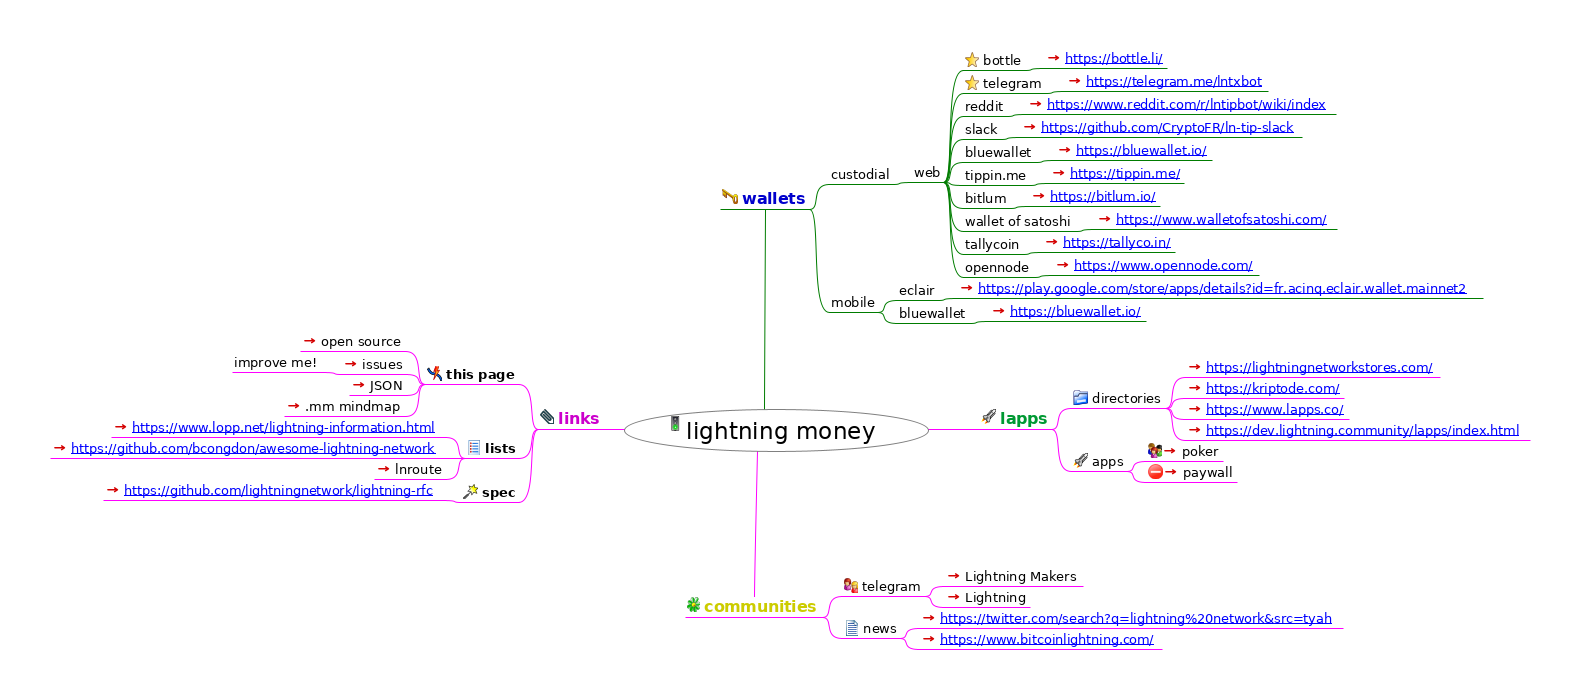
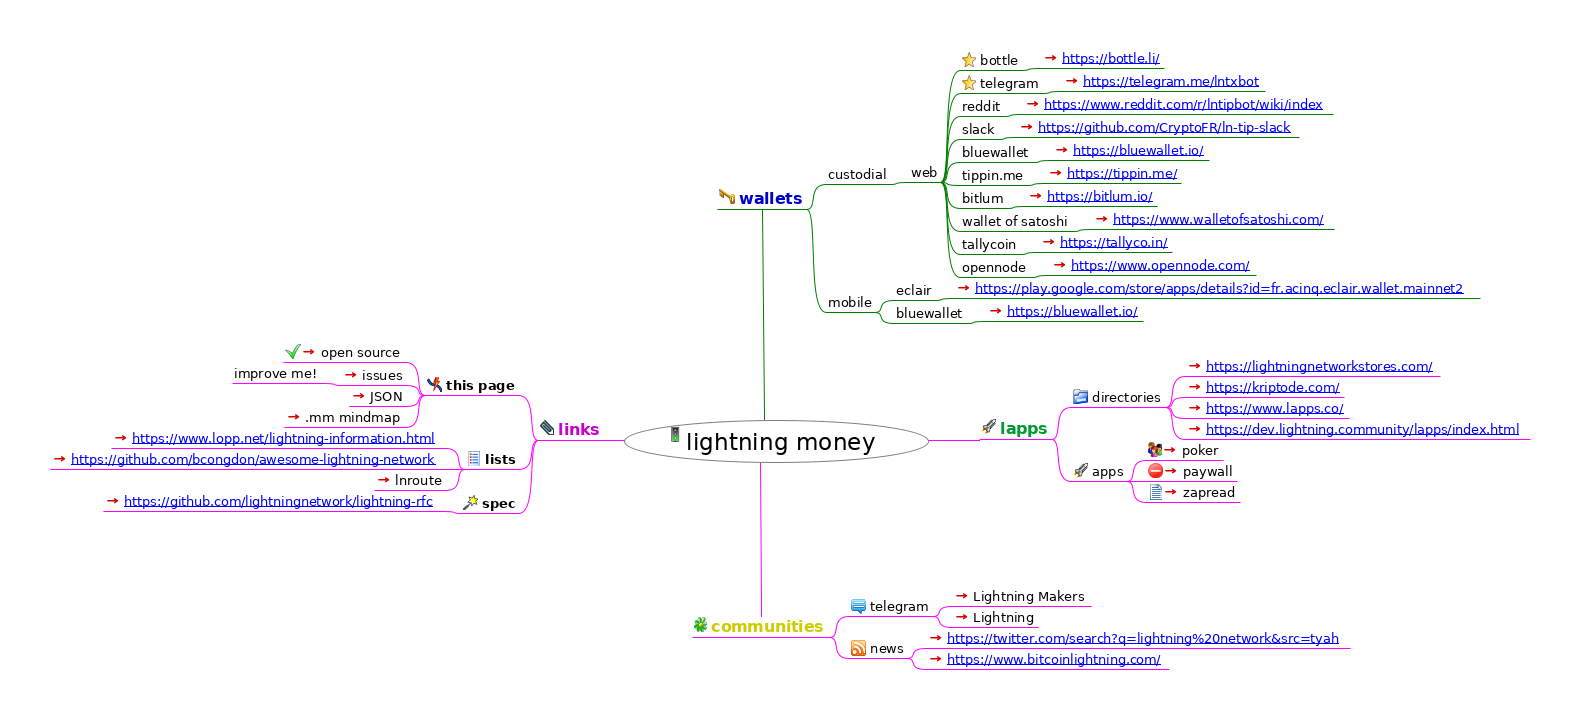
Add zapread

diff --git a/index.html b/index.html
@@ -23,64 +23,65 @@
                    };
                };
           
-          --></script></head><body><h1>lightning money</h1><div style="width:96%;  padding:2%;  margin-bottom:10px;  border: 0px;  text-align:center;  vertical-align:center;"><img src="index.html_files/image.png" style="margin-bottom:10px; &#9;border: 0px; &#9;text-align:center; &#9;vertical-align:center;" alt="Imagemap" usemap="#fm_imagemap" /></div><map name="fm_imagemap" id="fm_imagemap"><area shape="rect" href="#FMID_1568754813FM" alt="lightning money" title="lightning money" coords="624,409,929,452" />
-<area shape="rect" href="#FMID_403237537FM" alt="wallets" title="wallets" coords="720,189,810,209" />
-<area shape="rect" href="#FMID_713142011FM" alt="custodial" title="custodial" coords="829,166,893,184" />
-<area shape="rect" href="#FMID_1071283894FM" alt="web" title="web" coords="912,164,944,182" />
-<area shape="rect" href="#FMID_432921303FM" alt="bottle" title="bottle" coords="963,52,1025,70" />
-<area shape="rect" href="https://bottle.li/" alt="https://bottle.li/" title="https://bottle.li/" coords="1044,50,1167,68" />
-<area shape="rect" href="#FMID_1137404448FM" alt="telegram" title="telegram" coords="963,75,1046,93" />
-<area shape="rect" href="https://telegram.me/lntxbot" alt="https://telegram.me/lntxbot" title="https://telegram.me/lntxbot" coords="1065,73,1268,91" />
-<area shape="rect" href="#FMID_1462350239FM" alt="reddit" title="reddit" coords="963,98,1007,116" />
-<area shape="rect" href="https://www.reddit.com/r/lntipbot/wiki/index" alt="https://www.reddit.com/r/lntipbot/wiki/i ..." title="https://www.reddit.com/r/lntipbot/wiki/i ..." coords="1026,96,1336,114" />
-<area shape="rect" href="#FMID_1508247426FM" alt="slack" title="slack" coords="963,121,1001,139" />
-<area shape="rect" href="https://github.com/CryptoFR/ln-tip-slack" alt="https://github.com/CryptoFR/ln-tip-slack" title="https://github.com/CryptoFR/ln-tip-slack" coords="1020,119,1302,137" />
-<area shape="rect" href="#FMID_1624902230FM" alt="bluewallet" title="bluewallet" coords="963,144,1036,162" />
-<area shape="rect" href="https://bluewallet.io/" alt="https://bluewallet.io/" title="https://bluewallet.io/" coords="1055,142,1212,160" />
-<area shape="rect" href="#FMID_1286663915FM" alt="tippin.me" title="tippin.me" coords="963,167,1030,185" />
-<area shape="rect" href="https://tippin.me/" alt="https://tippin.me/" title="https://tippin.me/" coords="1049,165,1184,183" />
-<area shape="rect" href="#FMID_1565869066FM" alt="bitlum" title="bitlum" coords="963,190,1010,208" />
-<area shape="rect" href="https://bitlum.io/" alt="https://bitlum.io/" title="https://bitlum.io/" coords="1029,188,1160,206" />
-<area shape="rect" href="#FMID_1242085439FM" alt="wallet of satoshi" title="wallet of satoshi" coords="963,213,1076,231" />
-<area shape="rect" href="https://www.walletofsatoshi.com/" alt="https://www.walletofsatoshi.com/" title="https://www.walletofsatoshi.com/" coords="1095,211,1337,229" />
-<area shape="rect" href="#FMID_995052358FM" alt="tallycoin" title="tallycoin" coords="963,236,1023,254" />
-<area shape="rect" href="https://tallyco.in/" alt="https://tallyco.in/" title="https://tallyco.in/" coords="1042,234,1175,252" />
-<area shape="rect" href="#FMID_519516723FM" alt="opennode" title="opennode" coords="963,259,1034,277" />
-<area shape="rect" href="https://www.opennode.com/" alt="https://www.opennode.com/" title="https://www.opennode.com/" coords="1053,257,1259,275" />
-<area shape="rect" href="#FMID_129906959FM" alt="mobile" title="mobile" coords="829,294,878,312" />
-<area shape="rect" href="#FMID_1897401807FM" alt="eclair" title="eclair" coords="897,282,938,300" />
-<area shape="rect" href="https://play.google.com/store/apps/details?id=fr.acinq.eclair.wallet.mainnet2" alt="https://play.google.com/store/apps/detai ..." title="https://play.google.com/store/apps/detai ..." coords="957,280,1483,298" />
-<area shape="rect" href="#FMID_822394219FM" alt="bluewallet" title="bluewallet" coords="897,305,970,323" />
-<area shape="rect" href="https://bluewallet.io/" alt="https://bluewallet.io/" title="https://bluewallet.io/" coords="989,303,1146,321" />
-<area shape="rect" href="#FMID_1438249466FM" alt="lapps" title="lapps" coords="979,409,1052,429" />
-<area shape="rect" href="#FMID_1938254040FM" alt="directories" title="directories" coords="1071,390,1166,408" />
-<area shape="rect" href="https://lightningnetworkstores.com/" alt="https://lightningnetworkstores.com/" title="https://lightningnetworkstores.com/" coords="1185,359,1440,377" />
-<area shape="rect" href="https://kriptode.com/" alt="https://kriptode.com/" title="https://kriptode.com/" coords="1185,380,1344,398" />
-<area shape="rect" href="https://www.lapps.co/" alt="https://www.lapps.co/" title="https://www.lapps.co/" coords="1185,401,1349,419" />
-<area shape="rect" href="https://dev.lightning.community/lapps/index.html" alt="https://dev.lightning.community/lapps/in ..." title="https://dev.lightning.community/lapps/in ..." coords="1185,422,1530,440" />
-<area shape="rect" href="#FMID_1371138197FM" alt="apps" title="apps" coords="1071,453,1127,471" />
-<area shape="rect" href="https://lightning-poker.com/" alt="poker" title="poker" coords="1146,443,1223,461" />
-<area shape="rect" href="https://paywall.link/" alt="paywall" title="paywall" coords="1146,464,1237,482" />
-<area shape="rect" href="#FMID_1699377289FM" alt="communities" title="communities" coords="685,597,823,617" />
-<area shape="rect" href="#FMID_1812873111FM" alt="telegram" title="telegram" coords="842,578,925,596" />
-<area shape="rect" href="https://t.me/joinchat/EFJwOxEZmjqjTBEx2883Hw" alt="Lightning Makers" title="Lightning Makers" coords="944,568,1083,586" />
-<area shape="rect" href="https://t.me/lightning_network" alt="Lightning" title="Lightning" coords="944,589,1030,607" />
-<area shape="rect" href="#FMID_1050804376FM" alt="news" title="news" coords="842,620,900,638" />
-<area shape="rect" href="https://twitter.com/search?q=lightning%20network#FMID_1210018261FMamp;src=tyah" alt="https://twitter.com/search?q=lightning%2 ..." title="https://twitter.com/search?q=lightning%2 ..." coords="919,610,1343,628" />
-<area shape="rect" href="https://www.bitcoinlightning.com/" alt="https://www.bitcoinlightning.com/" title="https://www.bitcoinlightning.com/" coords="919,631,1162,649" />
-<area shape="rect" href="#FMID_728396892FM" alt="links" title="links" coords="538,409,604,429" />
-<area shape="rect" href="#FMID_1704672214FM" alt="this page" title="this page" coords="425,366,519,384" />
-<area shape="rect" href="https://github.com/solidpayorg/lightning.money/" alt="open source" title="open source" coords="300,333,406,351" />
-<area shape="rect" href="https://github.com/solidpayorg/lightning.money/issues" alt="issues" title="issues" coords="341,356,406,374" />
-<area shape="rect" href="#FMID_824388782FM" alt="improve me!" title="improve me!" coords="232,354,322,372" />
-<area shape="rect" href="index.json" alt="JSON" title="JSON" coords="349,377,406,395" />
-<area shape="rect" href="index.html" alt=".mm mindmap" title=".mm mindmap" coords="284,398,406,416" />
-<area shape="rect" href="#FMID_1744026554FM" alt="lists" title="lists" coords="465,440,519,458" />
-<area shape="rect" href="https://www.lopp.net/lightning-information.html" alt="https://www.lopp.net/lightning-informati ..." title="https://www.lopp.net/lightning-informati ..." coords="111,419,446,437" />
-<area shape="rect" href="https://github.com/bcongdon/awesome-lightning-network" alt="https://github.com/bcongdon/awesome-ligh ..." title="https://github.com/bcongdon/awesome-ligh ..." coords="50,440,446,458" />
-<area shape="rect" href="https://lnroute.com/" alt="lnroute" title="lnroute" coords="374,461,446,479" />
-<area shape="rect" href="#FMID_1721082161FM" alt="spec" title="spec" coords="461,484,519,502" />
-<area shape="rect" href="https://github.com/lightningnetwork/lightning-rfc" alt="https://github.com/lightningnetwork/ligh ..." title="https://github.com/lightningnetwork/ligh ..." coords="103,482,442,500" />
+          --></script></head><body><h1>lightning money</h1><div style="width:96%;  padding:2%;  margin-bottom:10px;  border: 0px;  text-align:center;  vertical-align:center;"><img src="index.html_files/image.png" style="margin-bottom:10px; &#9;border: 0px; &#9;text-align:center; &#9;vertical-align:center;" alt="Imagemap" usemap="#fm_imagemap" /></div><map name="fm_imagemap" id="fm_imagemap"><area shape="rect" href="#FMID_1568754813FM" alt="lightning money" title="lightning money" coords="624,420,929,463" />
+<area shape="rect" href="#FMID_403237537FM" alt="wallets" title="wallets" coords="717,189,807,209" />
+<area shape="rect" href="#FMID_713142011FM" alt="custodial" title="custodial" coords="826,166,890,184" />
+<area shape="rect" href="#FMID_1071283894FM" alt="web" title="web" coords="909,164,941,182" />
+<area shape="rect" href="#FMID_432921303FM" alt="bottle" title="bottle" coords="960,52,1022,70" />
+<area shape="rect" href="https://bottle.li/" alt="https://bottle.li/" title="https://bottle.li/" coords="1041,50,1164,68" />
+<area shape="rect" href="#FMID_1137404448FM" alt="telegram" title="telegram" coords="960,75,1043,93" />
+<area shape="rect" href="https://telegram.me/lntxbot" alt="https://telegram.me/lntxbot" title="https://telegram.me/lntxbot" coords="1062,73,1265,91" />
+<area shape="rect" href="#FMID_1462350239FM" alt="reddit" title="reddit" coords="960,98,1004,116" />
+<area shape="rect" href="https://www.reddit.com/r/lntipbot/wiki/index" alt="https://www.reddit.com/r/lntipbot/wiki/i ..." title="https://www.reddit.com/r/lntipbot/wiki/i ..." coords="1023,96,1333,114" />
+<area shape="rect" href="#FMID_1508247426FM" alt="slack" title="slack" coords="960,121,998,139" />
+<area shape="rect" href="https://github.com/CryptoFR/ln-tip-slack" alt="https://github.com/CryptoFR/ln-tip-slack" title="https://github.com/CryptoFR/ln-tip-slack" coords="1017,119,1299,137" />
+<area shape="rect" href="#FMID_1624902230FM" alt="bluewallet" title="bluewallet" coords="960,144,1033,162" />
+<area shape="rect" href="https://bluewallet.io/" alt="https://bluewallet.io/" title="https://bluewallet.io/" coords="1052,142,1209,160" />
+<area shape="rect" href="#FMID_1286663915FM" alt="tippin.me" title="tippin.me" coords="960,167,1027,185" />
+<area shape="rect" href="https://tippin.me/" alt="https://tippin.me/" title="https://tippin.me/" coords="1046,165,1181,183" />
+<area shape="rect" href="#FMID_1565869066FM" alt="bitlum" title="bitlum" coords="960,190,1007,208" />
+<area shape="rect" href="https://bitlum.io/" alt="https://bitlum.io/" title="https://bitlum.io/" coords="1026,188,1157,206" />
+<area shape="rect" href="#FMID_1242085439FM" alt="wallet of satoshi" title="wallet of satoshi" coords="960,213,1073,231" />
+<area shape="rect" href="https://www.walletofsatoshi.com/" alt="https://www.walletofsatoshi.com/" title="https://www.walletofsatoshi.com/" coords="1092,211,1334,229" />
+<area shape="rect" href="#FMID_995052358FM" alt="tallycoin" title="tallycoin" coords="960,236,1020,254" />
+<area shape="rect" href="https://tallyco.in/" alt="https://tallyco.in/" title="https://tallyco.in/" coords="1039,234,1172,252" />
+<area shape="rect" href="#FMID_519516723FM" alt="opennode" title="opennode" coords="960,259,1031,277" />
+<area shape="rect" href="https://www.opennode.com/" alt="https://www.opennode.com/" title="https://www.opennode.com/" coords="1050,257,1256,275" />
+<area shape="rect" href="#FMID_129906959FM" alt="mobile" title="mobile" coords="826,294,875,312" />
+<area shape="rect" href="#FMID_1897401807FM" alt="eclair" title="eclair" coords="894,282,935,300" />
+<area shape="rect" href="https://play.google.com/store/apps/details?id=fr.acinq.eclair.wallet.mainnet2" alt="https://play.google.com/store/apps/detai ..." title="https://play.google.com/store/apps/detai ..." coords="954,280,1480,298" />
+<area shape="rect" href="#FMID_822394219FM" alt="bluewallet" title="bluewallet" coords="894,305,967,323" />
+<area shape="rect" href="https://bluewallet.io/" alt="https://bluewallet.io/" title="https://bluewallet.io/" coords="986,303,1143,321" />
+<area shape="rect" href="#FMID_1438249466FM" alt="lapps" title="lapps" coords="979,419,1052,439" />
+<area shape="rect" href="#FMID_1938254040FM" alt="directories" title="directories" coords="1071,389,1166,407" />
+<area shape="rect" href="https://lightningnetworkstores.com/" alt="https://lightningnetworkstores.com/" title="https://lightningnetworkstores.com/" coords="1185,358,1440,376" />
+<area shape="rect" href="https://kriptode.com/" alt="https://kriptode.com/" title="https://kriptode.com/" coords="1185,379,1344,397" />
+<area shape="rect" href="https://www.lapps.co/" alt="https://www.lapps.co/" title="https://www.lapps.co/" coords="1185,400,1349,418" />
+<area shape="rect" href="https://dev.lightning.community/lapps/index.html" alt="https://dev.lightning.community/lapps/in ..." title="https://dev.lightning.community/lapps/in ..." coords="1185,421,1530,439" />
+<area shape="rect" href="#FMID_1371138197FM" alt="apps" title="apps" coords="1071,463,1127,481" />
+<area shape="rect" href="https://lightning-poker.com/" alt="poker" title="poker" coords="1146,442,1223,460" />
+<area shape="rect" href="https://paywall.link/" alt="paywall" title="paywall" coords="1146,463,1237,481" />
+<area shape="rect" href="https://www.zapread.com/" alt="zapread" title="zapread" coords="1146,484,1240,502" />
+<area shape="rect" href="#FMID_1699377289FM" alt="communities" title="communities" coords="692,617,830,637" />
+<area shape="rect" href="#FMID_1812873111FM" alt="telegram" title="telegram" coords="849,598,933,616" />
+<area shape="rect" href="https://t.me/joinchat/EFJwOxEZmjqjTBEx2883Hw" alt="Lightning Makers" title="Lightning Makers" coords="952,588,1091,606" />
+<area shape="rect" href="https://t.me/lightning_network" alt="Lightning" title="Lightning" coords="952,609,1038,627" />
+<area shape="rect" href="#FMID_1050804376FM" alt="news" title="news" coords="849,640,907,658" />
+<area shape="rect" href="https://twitter.com/search?q=lightning%20network#FMID_1210018261FMamp;src=tyah" alt="https://twitter.com/search?q=lightning%2 ..." title="https://twitter.com/search?q=lightning%2 ..." coords="926,630,1350,648" />
+<area shape="rect" href="https://www.bitcoinlightning.com/" alt="https://www.bitcoinlightning.com/" title="https://www.bitcoinlightning.com/" coords="926,651,1169,669" />
+<area shape="rect" href="#FMID_728396892FM" alt="links" title="links" coords="538,420,604,440" />
+<area shape="rect" href="#FMID_1704672214FM" alt="this page" title="this page" coords="425,377,519,395" />
+<area shape="rect" href="https://github.com/solidpayorg/lightning.money/" alt="open source" title="open source" coords="283,344,406,362" />
+<area shape="rect" href="https://github.com/solidpayorg/lightning.money/issues" alt="issues" title="issues" coords="341,367,406,385" />
+<area shape="rect" href="#FMID_824388782FM" alt="improve me!" title="improve me!" coords="232,365,322,383" />
+<area shape="rect" href="index.json" alt="JSON" title="JSON" coords="349,388,406,406" />
+<area shape="rect" href="index.html" alt=".mm mindmap" title=".mm mindmap" coords="284,409,406,427" />
+<area shape="rect" href="#FMID_1744026554FM" alt="lists" title="lists" coords="465,451,519,469" />
+<area shape="rect" href="https://www.lopp.net/lightning-information.html" alt="https://www.lopp.net/lightning-informati ..." title="https://www.lopp.net/lightning-informati ..." coords="111,430,446,448" />
+<area shape="rect" href="https://github.com/bcongdon/awesome-lightning-network" alt="https://github.com/bcongdon/awesome-ligh ..." title="https://github.com/bcongdon/awesome-ligh ..." coords="50,451,446,469" />
+<area shape="rect" href="https://lnroute.com/" alt="lnroute" title="lnroute" coords="374,472,446,490" />
+<area shape="rect" href="#FMID_1721082161FM" alt="spec" title="spec" coords="461,495,519,513" />
+<area shape="rect" href="https://github.com/lightningnetwork/lightning-rfc" alt="https://github.com/lightningnetwork/ligh ..." title="https://github.com/lightningnetwork/ligh ..." coords="103,493,442,511" />
 </map>
 
 <div class="node"><img src="index.html_files/hide.png" class="hideshow" alt="hide" onClick="toggle(&quot;N65543&quot;)" id="imgN65543" /><img src="index.html_files/icons/go.svg" alt="go" /> <a id="FMID_1568754813FM" /><div class="nodecontent" style="color:#000000;font-size:150%;">lightning money</div><div class="content" id="N65543"><div class="node"><img src="index.html_files/hide.png" class="hideshow" alt="hide" onClick="toggle(&quot;N66444&quot;)" id="imgN66444" /><img src="index.html_files/icons/password.svg" alt="password" /> <a id="FMID_403237537FM" /><div class="nodecontent" style="color:#0000cc;font-size:100%;font-weight:bold;">wallets</div><div class="content" id="N66444"><div class="node"><img src="index.html_files/hide.png" class="hideshow" alt="hide" onClick="toggle(&quot;N66487&quot;)" id="imgN66487" /><a id="FMID_713142011FM" /><div class="nodecontent" style="color:#000000;font-size:83%;">custodial</div><div class="content" id="N66487"><div class="node"><img src="index.html_files/hide.png" class="hideshow" alt="hide" onClick="toggle(&quot;N66522&quot;)" id="imgN66522" /><a id="FMID_1071283894FM" /><div class="nodecontent" style="color:#000000;font-size:83%;">web</div><div class="content" id="N66522"><div class="node"><img src="index.html_files/hide.png" class="hideshow" alt="hide" onClick="toggle(&quot;N66557&quot;)" id="imgN66557" /><img src="index.html_files/icons/bookmark.svg" alt="bookmark" /> <a id="FMID_432921303FM" /><div class="nodecontent" style="color:#000000;font-size:83%;">bottle</div><div class="content" id="N66557"><div class="node"><img src="index.html_files/leaf.png" class="hideshow" alt="leaf" /><a id="FMID_1723379621FM" /><div class="nodecontent" style="color:#000000;font-size:83%;"><a href="https://bottle.li/">
@@ -115,15 +116,15 @@
     <a http-equiv="content-type" content="text/html; charset=utf-8" href="https://www.lapps.co/">https://www.lapps.co/</a>
   </a> <a href="https://www.lapps.co/"><img src="index.html_files/ilink.png" alt="User Link" style="border-width:0" /></a></div></div><div class="node"><img src="index.html_files/leaf.png" class="hideshow" alt="leaf" /><a id="FMID_356357336FM" /><div class="nodecontent" style="color:#000000;font-size:83%;"><a href="https://dev.lightning.community/lapps/index.html">
     <a http-equiv="content-type" content="text/html; charset=utf-8" href="https://dev.lightning.community/lapps/index.html">https://dev.lightning.community/lapps/index.html</a>
-  </a> <a href="https://dev.lightning.community/lapps/index.html"><img src="index.html_files/ilink.png" alt="User Link" style="border-width:0" /></a></div></div></div></div><div class="node"><img src="index.html_files/hide.png" class="hideshow" alt="hide" onClick="toggle(&quot;N68002&quot;)" id="imgN68002" /><img src="index.html_files/icons/launch.svg" alt="launch" /> <a id="FMID_1371138197FM" /><div class="nodecontent" style="color:#000000;font-size:83%;">apps</div><div class="content" id="N68002"><div class="node"><img src="index.html_files/leaf.png" class="hideshow" alt="leaf" /><img src="index.html_files/icons/group.svg" alt="group" /> <a id="FMID_491528674FM" /><div class="nodecontent" style="color:#000000;font-size:83%;"><a href="https://lightning-poker.com/">poker</a> <a href="https://lightning-poker.com/"><img src="index.html_files/ilink.png" alt="User Link" style="border-width:0" /></a></div></div><div class="node"><img src="index.html_files/leaf.png" class="hideshow" alt="leaf" /><img src="index.html_files/icons/closed.svg" alt="closed" /> <a id="FMID_678426153FM" /><div class="nodecontent" style="color:#000000;font-size:83%;"><a href="https://paywall.link/">paywall</a> <a href="https://paywall.link/"><img src="index.html_files/ilink.png" alt="User Link" style="border-width:0" /></a></div></div></div></div></div></div><div class="node"><img src="index.html_files/hide.png" class="hideshow" alt="hide" onClick="toggle(&quot;N68128&quot;)" id="imgN68128" /><img src="index.html_files/icons/licq.svg" alt="licq" /> <a id="FMID_1699377289FM" /><div class="nodecontent" style="color:#cccc00;font-size:100%;font-weight:bold;">communities</div><div class="content" id="N68128"><div class="node"><img src="index.html_files/hide.png" class="hideshow" alt="hide" onClick="toggle(&quot;N68171&quot;)" id="imgN68171" /><img src="index.html_files/icons/females.svg" alt="females" /> <a id="FMID_1812873111FM" /><div class="nodecontent" style="color:#000000;font-size:83%;">telegram</div><div class="content" id="N68171"><div class="node"><img src="index.html_files/leaf.png" class="hideshow" alt="leaf" /><a id="FMID_31009961FM" /><div class="nodecontent" style="color:#000000;font-size:83%;"><a href="https://t.me/joinchat/EFJwOxEZmjqjTBEx2883Hw">Lightning Makers</a> <a href="https://t.me/joinchat/EFJwOxEZmjqjTBEx2883Hw"><img src="index.html_files/ilink.png" alt="User Link" style="border-width:0" /></a></div></div><div class="node"><img src="index.html_files/leaf.png" class="hideshow" alt="leaf" /><a id="FMID_95271556FM" /><div class="nodecontent" style="color:#000000;font-size:83%;"><a href="https://t.me/lightning_network">Lightning</a> <a href="https://t.me/lightning_network"><img src="index.html_files/ilink.png" alt="User Link" style="border-width:0" /></a></div></div></div></div><div class="node"><img src="index.html_files/hide.png" class="hideshow" alt="hide" onClick="toggle(&quot;N68286&quot;)" id="imgN68286" /><img src="index.html_files/icons/16x16-free-application-icons/png/16x16/Text.svg" alt="16x16-free-application-icons/png/16x16/Text" /> <a id="FMID_1050804376FM" /><div class="nodecontent" style="color:#000000;font-size:83%;">news</div><div class="content" id="N68286"><div class="node"><img src="index.html_files/leaf.png" class="hideshow" alt="leaf" /><a id="FMID_1210018261FM" /><div class="nodecontent" style="color:#000000;font-size:83%;"><a href="https://twitter.com/search?q=lightning%20network&amp;src=tyah">
+  </a> <a href="https://dev.lightning.community/lapps/index.html"><img src="index.html_files/ilink.png" alt="User Link" style="border-width:0" /></a></div></div></div></div><div class="node"><img src="index.html_files/hide.png" class="hideshow" alt="hide" onClick="toggle(&quot;N68002&quot;)" id="imgN68002" /><img src="index.html_files/icons/launch.svg" alt="launch" /> <a id="FMID_1371138197FM" /><div class="nodecontent" style="color:#000000;font-size:83%;">apps</div><div class="content" id="N68002"><div class="node"><img src="index.html_files/leaf.png" class="hideshow" alt="leaf" /><img src="index.html_files/icons/group.svg" alt="group" /> <a id="FMID_491528674FM" /><div class="nodecontent" style="color:#000000;font-size:83%;"><a href="https://lightning-poker.com/">poker</a> <a href="https://lightning-poker.com/"><img src="index.html_files/ilink.png" alt="User Link" style="border-width:0" /></a></div></div><div class="node"><img src="index.html_files/leaf.png" class="hideshow" alt="leaf" /><img src="index.html_files/icons/closed.svg" alt="closed" /> <a id="FMID_678426153FM" /><div class="nodecontent" style="color:#000000;font-size:83%;"><a href="https://paywall.link/">paywall</a> <a href="https://paywall.link/"><img src="index.html_files/ilink.png" alt="User Link" style="border-width:0" /></a></div></div><div class="node"><img src="index.html_files/leaf.png" class="hideshow" alt="leaf" /><img src="index.html_files/icons/16x16-free-application-icons/png/16x16/Text.svg" alt="16x16-free-application-icons/png/16x16/Text" /> <a id="FMID_1250146990FM" /><div class="nodecontent" style="color:#000000;font-size:83%;"><a href="https://www.zapread.com/">zapread</a> <a href="https://www.zapread.com/"><img src="index.html_files/ilink.png" alt="User Link" style="border-width:0" /></a></div></div></div></div></div></div><div class="node"><img src="index.html_files/hide.png" class="hideshow" alt="hide" onClick="toggle(&quot;N68170&quot;)" id="imgN68170" /><img src="index.html_files/icons/licq.svg" alt="licq" /> <a id="FMID_1699377289FM" /><div class="nodecontent" style="color:#cccc00;font-size:100%;font-weight:bold;">communities</div><div class="content" id="N68170"><div class="node"><img src="index.html_files/hide.png" class="hideshow" alt="hide" onClick="toggle(&quot;N68213&quot;)" id="imgN68213" /><img src="index.html_files/icons/16x16-free-application-icons/png/16x16/Comment.svg" alt="16x16-free-application-icons/png/16x16/Comment" /> <a id="FMID_1812873111FM" /><div class="nodecontent" style="color:#000000;font-size:83%;">telegram</div><div class="content" id="N68213"><div class="node"><img src="index.html_files/leaf.png" class="hideshow" alt="leaf" /><a id="FMID_31009961FM" /><div class="nodecontent" style="color:#000000;font-size:83%;"><a href="https://t.me/joinchat/EFJwOxEZmjqjTBEx2883Hw">Lightning Makers</a> <a href="https://t.me/joinchat/EFJwOxEZmjqjTBEx2883Hw"><img src="index.html_files/ilink.png" alt="User Link" style="border-width:0" /></a></div></div><div class="node"><img src="index.html_files/leaf.png" class="hideshow" alt="leaf" /><a id="FMID_95271556FM" /><div class="nodecontent" style="color:#000000;font-size:83%;"><a href="https://t.me/lightning_network">Lightning</a> <a href="https://t.me/lightning_network"><img src="index.html_files/ilink.png" alt="User Link" style="border-width:0" /></a></div></div></div></div><div class="node"><img src="index.html_files/hide.png" class="hideshow" alt="hide" onClick="toggle(&quot;N68328&quot;)" id="imgN68328" /><img src="index.html_files/icons/16x16-free-application-icons/png/16x16/Blog.svg" alt="16x16-free-application-icons/png/16x16/Blog" /> <a id="FMID_1050804376FM" /><div class="nodecontent" style="color:#000000;font-size:83%;">news</div><div class="content" id="N68328"><div class="node"><img src="index.html_files/leaf.png" class="hideshow" alt="leaf" /><a id="FMID_1210018261FM" /><div class="nodecontent" style="color:#000000;font-size:83%;"><a href="https://twitter.com/search?q=lightning%20network&amp;src=tyah">
     <a http-equiv="content-type" content="text/html; charset=utf-8" href="https://twitter.com/search?q=lightning%20network&amp;src=tyah">https://twitter.com/search?q=lightning%20network&amp;src=tyah</a>
   </a> <a href="https://twitter.com/search?q=lightning%20network&amp;src=tyah"><img src="index.html_files/ilink.png" alt="User Link" style="border-width:0" /></a></div></div><div class="node"><img src="index.html_files/leaf.png" class="hideshow" alt="leaf" /><a id="FMID_1919527951FM" /><div class="nodecontent" style="color:#000000;font-size:83%;"><a href="https://www.bitcoinlightning.com/">
     <a http-equiv="content-type" content="text/html; charset=utf-8" href="https://www.bitcoinlightning.com/">https://www.bitcoinlightning.com/</a>
-  </a> <a href="https://www.bitcoinlightning.com/"><img src="index.html_files/ilink.png" alt="User Link" style="border-width:0" /></a></div></div></div></div></div></div><div class="node"><img src="index.html_files/hide.png" class="hideshow" alt="hide" onClick="toggle(&quot;N68438&quot;)" id="imgN68438" /><img src="index.html_files/icons/attach.svg" alt="attach" /> <a id="FMID_728396892FM" /><div class="nodecontent" style="color:#cc00cc;font-size:100%;font-weight:bold;">links</div><div class="content" id="N68438"><div class="node"><img src="index.html_files/hide.png" class="hideshow" alt="hide" onClick="toggle(&quot;N68481&quot;)" id="imgN68481" /><img src="index.html_files/icons/broken-line.svg" alt="broken-line" /> <a id="FMID_1704672214FM" /><div class="nodecontent" style="color:#000000;font-size:83%;font-weight:bold;">this page</div><div class="content" id="N68481"><div class="node"><img src="index.html_files/leaf.png" class="hideshow" alt="leaf" /><a id="FMID_1211678675FM" /><div class="nodecontent" style="color:#000000;font-size:83%;"><a href="https://github.com/solidpayorg/lightning.money/">open source</a> <a href="https://github.com/solidpayorg/lightning.money/"><img src="index.html_files/ilink.png" alt="User Link" style="border-width:0" /></a></div></div><div class="node"><img src="index.html_files/hide.png" class="hideshow" alt="hide" onClick="toggle(&quot;N68558&quot;)" id="imgN68558" /><a id="FMID_1677347904FM" /><div class="nodecontent" style="color:#000000;font-size:83%;"><a href="https://github.com/solidpayorg/lightning.money/issues">issues</a> <a href="https://github.com/solidpayorg/lightning.money/issues"><img src="index.html_files/ilink.png" alt="User Link" style="border-width:0" /></a></div><div class="content" id="N68558"><div class="node"><img src="index.html_files/leaf.png" class="hideshow" alt="leaf" /><a id="FMID_824388782FM" /><div class="nodecontent" style="color:#000000;font-size:83%;">improve me!</div></div></div></div><div class="node"><img src="index.html_files/leaf.png" class="hideshow" alt="leaf" /><a id="FMID_903253757FM" /><div class="nodecontent" style="color:#000000;font-size:83%;"><a href="index.json">JSON</a> <a href="index.json"><img src="index.html_files/ilink.png" alt="User Link" style="border-width:0" /></a></div></div><div class="node"><img src="index.html_files/leaf.png" class="hideshow" alt="leaf" /><a id="FMID_963935095FM" /><div class="nodecontent" style="color:#000000;font-size:83%;"><a href="index.html">.mm mindmap</a> <a href="index.html"><img src="index.html_files/ilink.png" alt="User Link" style="border-width:0" /></a></div></div></div></div><div class="node"><img src="index.html_files/hide.png" class="hideshow" alt="hide" onClick="toggle(&quot;N68706&quot;)" id="imgN68706" /><img src="index.html_files/icons/list.svg" alt="list" /> <a id="FMID_1744026554FM" /><div class="nodecontent" style="color:#000000;font-size:83%;font-weight:bold;">lists</div><div class="content" id="N68706"><div class="node"><img src="index.html_files/leaf.png" class="hideshow" alt="leaf" /><a id="FMID_1897426799FM" /><div class="nodecontent" style="color:#000000;font-size:83%;"><a href="https://www.lopp.net/lightning-information.html">
+  </a> <a href="https://www.bitcoinlightning.com/"><img src="index.html_files/ilink.png" alt="User Link" style="border-width:0" /></a></div></div></div></div></div></div><div class="node"><img src="index.html_files/hide.png" class="hideshow" alt="hide" onClick="toggle(&quot;N68480&quot;)" id="imgN68480" /><img src="index.html_files/icons/attach.svg" alt="attach" /> <a id="FMID_728396892FM" /><div class="nodecontent" style="color:#cc00cc;font-size:100%;font-weight:bold;">links</div><div class="content" id="N68480"><div class="node"><img src="index.html_files/hide.png" class="hideshow" alt="hide" onClick="toggle(&quot;N68523&quot;)" id="imgN68523" /><img src="index.html_files/icons/broken-line.svg" alt="broken-line" /> <a id="FMID_1704672214FM" /><div class="nodecontent" style="color:#000000;font-size:83%;font-weight:bold;">this page</div><div class="content" id="N68523"><div class="node"><img src="index.html_files/leaf.png" class="hideshow" alt="leaf" /><img src="index.html_files/icons/button_ok.svg" alt="button_ok" /> <a id="FMID_1211678675FM" /><div class="nodecontent" style="color:#000000;font-size:83%;"><a href="https://github.com/solidpayorg/lightning.money/">open source</a> <a href="https://github.com/solidpayorg/lightning.money/"><img src="index.html_files/ilink.png" alt="User Link" style="border-width:0" /></a></div></div><div class="node"><img src="index.html_files/hide.png" class="hideshow" alt="hide" onClick="toggle(&quot;N68605&quot;)" id="imgN68605" /><a id="FMID_1677347904FM" /><div class="nodecontent" style="color:#000000;font-size:83%;"><a href="https://github.com/solidpayorg/lightning.money/issues">issues</a> <a href="https://github.com/solidpayorg/lightning.money/issues"><img src="index.html_files/ilink.png" alt="User Link" style="border-width:0" /></a></div><div class="content" id="N68605"><div class="node"><img src="index.html_files/leaf.png" class="hideshow" alt="leaf" /><a id="FMID_824388782FM" /><div class="nodecontent" style="color:#000000;font-size:83%;">improve me!</div></div></div></div><div class="node"><img src="index.html_files/leaf.png" class="hideshow" alt="leaf" /><a id="FMID_903253757FM" /><div class="nodecontent" style="color:#000000;font-size:83%;"><a href="index.json">JSON</a> <a href="index.json"><img src="index.html_files/ilink.png" alt="User Link" style="border-width:0" /></a></div></div><div class="node"><img src="index.html_files/leaf.png" class="hideshow" alt="leaf" /><a id="FMID_963935095FM" /><div class="nodecontent" style="color:#000000;font-size:83%;"><a href="index.html">.mm mindmap</a> <a href="index.html"><img src="index.html_files/ilink.png" alt="User Link" style="border-width:0" /></a></div></div></div></div><div class="node"><img src="index.html_files/hide.png" class="hideshow" alt="hide" onClick="toggle(&quot;N68753&quot;)" id="imgN68753" /><img src="index.html_files/icons/list.svg" alt="list" /> <a id="FMID_1744026554FM" /><div class="nodecontent" style="color:#000000;font-size:83%;font-weight:bold;">lists</div><div class="content" id="N68753"><div class="node"><img src="index.html_files/leaf.png" class="hideshow" alt="leaf" /><a id="FMID_1897426799FM" /><div class="nodecontent" style="color:#000000;font-size:83%;"><a href="https://www.lopp.net/lightning-information.html">
     <a http-equiv="content-type" content="text/html; charset=utf-8" href="https://www.lopp.net/lightning-information.html">https://www.lopp.net/lightning-information.html</a>
   </a> <a href="https://www.lopp.net/lightning-information.html"><img src="index.html_files/ilink.png" alt="User Link" style="border-width:0" /></a></div></div><div class="node"><img src="index.html_files/leaf.png" class="hideshow" alt="leaf" /><a id="FMID_1244510370FM" /><div class="nodecontent" style="color:#000000;font-size:83%;"><a href="https://github.com/bcongdon/awesome-lightning-network">
     <a http-equiv="content-type" content="text/html; charset=utf-8" href="https://github.com/bcongdon/awesome-lightning-network">https://github.com/bcongdon/awesome-lightning-network</a>
-  </a> <a href="https://github.com/bcongdon/awesome-lightning-network"><img src="index.html_files/ilink.png" alt="User Link" style="border-width:0" /></a></div></div><div class="node"><img src="index.html_files/leaf.png" class="hideshow" alt="leaf" /><a id="FMID_1451851808FM" /><div class="nodecontent" style="color:#000000;font-size:83%;"><a href="https://lnroute.com/">lnroute</a> <a href="https://lnroute.com/"><img src="index.html_files/ilink.png" alt="User Link" style="border-width:0" /></a></div></div></div></div><div class="node"><img src="index.html_files/hide.png" class="hideshow" alt="hide" onClick="toggle(&quot;N68894&quot;)" id="imgN68894" /><img src="index.html_files/icons/wizard.svg" alt="wizard" /> <a id="FMID_1721082161FM" /><div class="nodecontent" style="color:#000000;font-size:83%;font-weight:bold;">spec</div><div class="content" id="N68894"><div class="node"><img src="index.html_files/leaf.png" class="hideshow" alt="leaf" /><a id="FMID_1858353829FM" /><div class="nodecontent" style="color:#000000;font-size:83%;"><a href="https://github.com/lightningnetwork/lightning-rfc">
+  </a> <a href="https://github.com/bcongdon/awesome-lightning-network"><img src="index.html_files/ilink.png" alt="User Link" style="border-width:0" /></a></div></div><div class="node"><img src="index.html_files/leaf.png" class="hideshow" alt="leaf" /><a id="FMID_1451851808FM" /><div class="nodecontent" style="color:#000000;font-size:83%;"><a href="https://lnroute.com/">lnroute</a> <a href="https://lnroute.com/"><img src="index.html_files/ilink.png" alt="User Link" style="border-width:0" /></a></div></div></div></div><div class="node"><img src="index.html_files/hide.png" class="hideshow" alt="hide" onClick="toggle(&quot;N68941&quot;)" id="imgN68941" /><img src="index.html_files/icons/wizard.svg" alt="wizard" /> <a id="FMID_1721082161FM" /><div class="nodecontent" style="color:#000000;font-size:83%;font-weight:bold;">spec</div><div class="content" id="N68941"><div class="node"><img src="index.html_files/leaf.png" class="hideshow" alt="leaf" /><a id="FMID_1858353829FM" /><div class="nodecontent" style="color:#000000;font-size:83%;"><a href="https://github.com/lightningnetwork/lightning-rfc">
     <a http-equiv="content-type" content="text/html; charset=utf-8" href="https://github.com/lightningnetwork/lightning-rfc">https://github.com/lightningnetwork/lightning-rfc</a>
   </a> <a href="https://github.com/lightningnetwork/lightning-rfc"><img src="index.html_files/ilink.png" alt="User Link" style="border-width:0" /></a></div></div></div></div></div></div></div></div>
 </body></html>

diff --git a/index.mm b/index.mm
@@ -1,6 +1,6 @@
 <map version="freeplane 1.7.0">
 <!--To view this file, download free mind mapping software Freeplane from http://freeplane.sourceforge.net -->
-<node TEXT="lightning money" FOLDED="false" ID="ID_1568754813" CREATED="1569871551142" MODIFIED="1572155266362" STYLE="oval">
+<node TEXT="lightning money" FOLDED="false" ID="ID_1568754813" CREATED="1569871551142" MODIFIED="1572157800680" STYLE="oval">
 <icon BUILTIN="go"/>
 <font SIZE="18"/>
 <hook NAME="MapStyle">
@@ -65,10 +65,10 @@
 </map_styles>
 </hook>
 <hook NAME="AutomaticEdgeColor" COUNTER="11" RULE="ON_BRANCH_CREATION"/>
-<node TEXT="wallets" POSITION="right" ID="ID_403237537" CREATED="1569861472802" MODIFIED="1572155298043" COLOR="#0000cc" HGAP_QUANTITY="-156.999994903803 pt" VSHIFT_QUANTITY="-25.499999240040797 pt">
+<node TEXT="wallets" POSITION="right" ID="ID_403237537" CREATED="1569861472802" MODIFIED="1572157797389" COLOR="#0000cc" HGAP_QUANTITY="-159.2499948367478 pt" VSHIFT_QUANTITY="-24.74999926239254 pt">
 <icon BUILTIN="password"/>
-<edge COLOR="#007c00"/>
 <font SIZE="12" BOLD="true"/>
+<edge COLOR="#007c00"/>
 <node TEXT="custodial" ID="ID_713142011" CREATED="1569861478020" MODIFIED="1569861480116">
 <node TEXT="web" ID="ID_1071283894" CREATED="1569861594542" MODIFIED="1569861597550">
 <node TEXT="bottle" ID="ID_432921303" CREATED="1569861575744" MODIFIED="1569939940242">
@@ -246,10 +246,10 @@
 </node>
 </node>
 </node>
-<node TEXT="lapps" POSITION="right" ID="ID_1438249466" CREATED="1569959255579" MODIFIED="1572155309627" COLOR="#009933" HGAP_QUANTITY="37.249999307096026 pt" VSHIFT_QUANTITY="-62.999998122453746 pt">
+<node TEXT="lapps" POSITION="right" ID="ID_1438249466" CREATED="1569959255579" MODIFIED="1572155697504" COLOR="#009933" HGAP_QUANTITY="37.249999307096026 pt" VSHIFT_QUANTITY="-62.999998122453746 pt">
 <icon BUILTIN="launch"/>
-<edge COLOR="#ff00ff"/>
 <font SIZE="12" BOLD="true"/>
+<edge COLOR="#ff00ff"/>
 <node TEXT="directories" ID="ID_1938254040" CREATED="1569959280494" MODIFIED="1572154901989">
 <icon BUILTIN="folder"/>
 <node ID="ID_1622962411" CREATED="1569959304401" MODIFIED="1569959304401" LINK="https://lightningnetworkstores.com/"><richcontent TYPE="NODE">
@@ -309,19 +309,22 @@
 <node TEXT="paywall" ID="ID_678426153" CREATED="1572154709114" MODIFIED="1572154731583" LINK="https://paywall.link/">
 <icon BUILTIN="closed"/>
 </node>
+<node TEXT="zapread" ID="ID_1250146990" CREATED="1572157576036" MODIFIED="1572157683127" LINK="https://www.zapread.com/">
+<icon BUILTIN="16x16-free-application-icons/png/16x16/Text"/>
 </node>
 </node>
-<node TEXT="communities" POSITION="right" ID="ID_1699377289" CREATED="1571777237336" MODIFIED="1572155320506" HGAP_QUANTITY="-183.24999412149208 pt" VSHIFT_QUANTITY="-11.249999664723886 pt" COLOR="#cccc00">
+</node>
+<node TEXT="communities" POSITION="right" ID="ID_1699377289" CREATED="1571777237336" MODIFIED="1572157800680" HGAP_QUANTITY="-177.99999427795427 pt" VSHIFT_QUANTITY="-11.999999642372144 pt" COLOR="#cccc00">
 <icon BUILTIN="licq"/>
-<edge COLOR="#ff00ff"/>
 <font SIZE="12" BOLD="true"/>
-<node TEXT="telegram" ID="ID_1812873111" CREATED="1571777297570" MODIFIED="1572154884468">
-<icon BUILTIN="females"/>
+<edge COLOR="#ff00ff"/>
+<node TEXT="telegram" ID="ID_1812873111" CREATED="1571777297570" MODIFIED="1572157764327">
+<icon BUILTIN="16x16-free-application-icons/png/16x16/Comment"/>
 <node TEXT="Lightning Makers" ID="ID_31009961" CREATED="1571777277694" MODIFIED="1571777285150" LINK="https://t.me/joinchat/EFJwOxEZmjqjTBEx2883Hw"/>
 <node TEXT="Lightning" ID="ID_95271556" CREATED="1571777314980" MODIFIED="1571777321996" LINK="https://t.me/lightning_network"/>
 </node>
-<node TEXT="news" ID="ID_1050804376" CREATED="1570785347577" MODIFIED="1572154855802">
-<icon BUILTIN="16x16-free-application-icons/png/16x16/Text"/>
+<node TEXT="news" ID="ID_1050804376" CREATED="1570785347577" MODIFIED="1572157784490">
+<icon BUILTIN="16x16-free-application-icons/png/16x16/Blog"/>
 <font BOLD="false"/>
 <node ID="ID_1210018261" CREATED="1570875815581" MODIFIED="1570875815581" LINK="https://twitter.com/search?q=lightning%20network&amp;src=tyah"><richcontent TYPE="NODE">
 
@@ -349,14 +352,16 @@
 </node>
 </node>
 </node>
-<node TEXT="links" POSITION="left" ID="ID_728396892" CREATED="1569861329090" MODIFIED="1572155330595" COLOR="#cc00cc" HGAP_QUANTITY="14.749999977648258 pt" VSHIFT_QUANTITY="-8.999999731779106 pt">
+<node TEXT="links" POSITION="left" ID="ID_728396892" CREATED="1569861329090" MODIFIED="1572155697504" COLOR="#cc00cc" HGAP_QUANTITY="14.749999977648258 pt" VSHIFT_QUANTITY="-8.999999731779106 pt">
 <icon BUILTIN="attach"/>
-<edge COLOR="#ff00ff"/>
 <font SIZE="12" BOLD="true"/>
+<edge COLOR="#ff00ff"/>
 <node TEXT="this page" ID="ID_1704672214" CREATED="1569940752211" MODIFIED="1572154794859">
 <icon BUILTIN="broken-line"/>
 <font BOLD="true"/>
-<node TEXT="open source" ID="ID_1211678675" CREATED="1569940791266" MODIFIED="1569940805605" LINK="https://github.com/solidpayorg/lightning.money/"/>
+<node TEXT="open source" ID="ID_1211678675" CREATED="1569940791266" MODIFIED="1572157792168" LINK="https://github.com/solidpayorg/lightning.money/">
+<icon BUILTIN="button_ok"/>
+</node>
 <node TEXT="issues" ID="ID_1677347904" CREATED="1569940820101" MODIFIED="1569940824129" LINK="https://github.com/solidpayorg/lightning.money/issues">
 <node TEXT="improve me!" ID="ID_824388782" CREATED="1569940807703" MODIFIED="1569940810176"/>
 </node>
